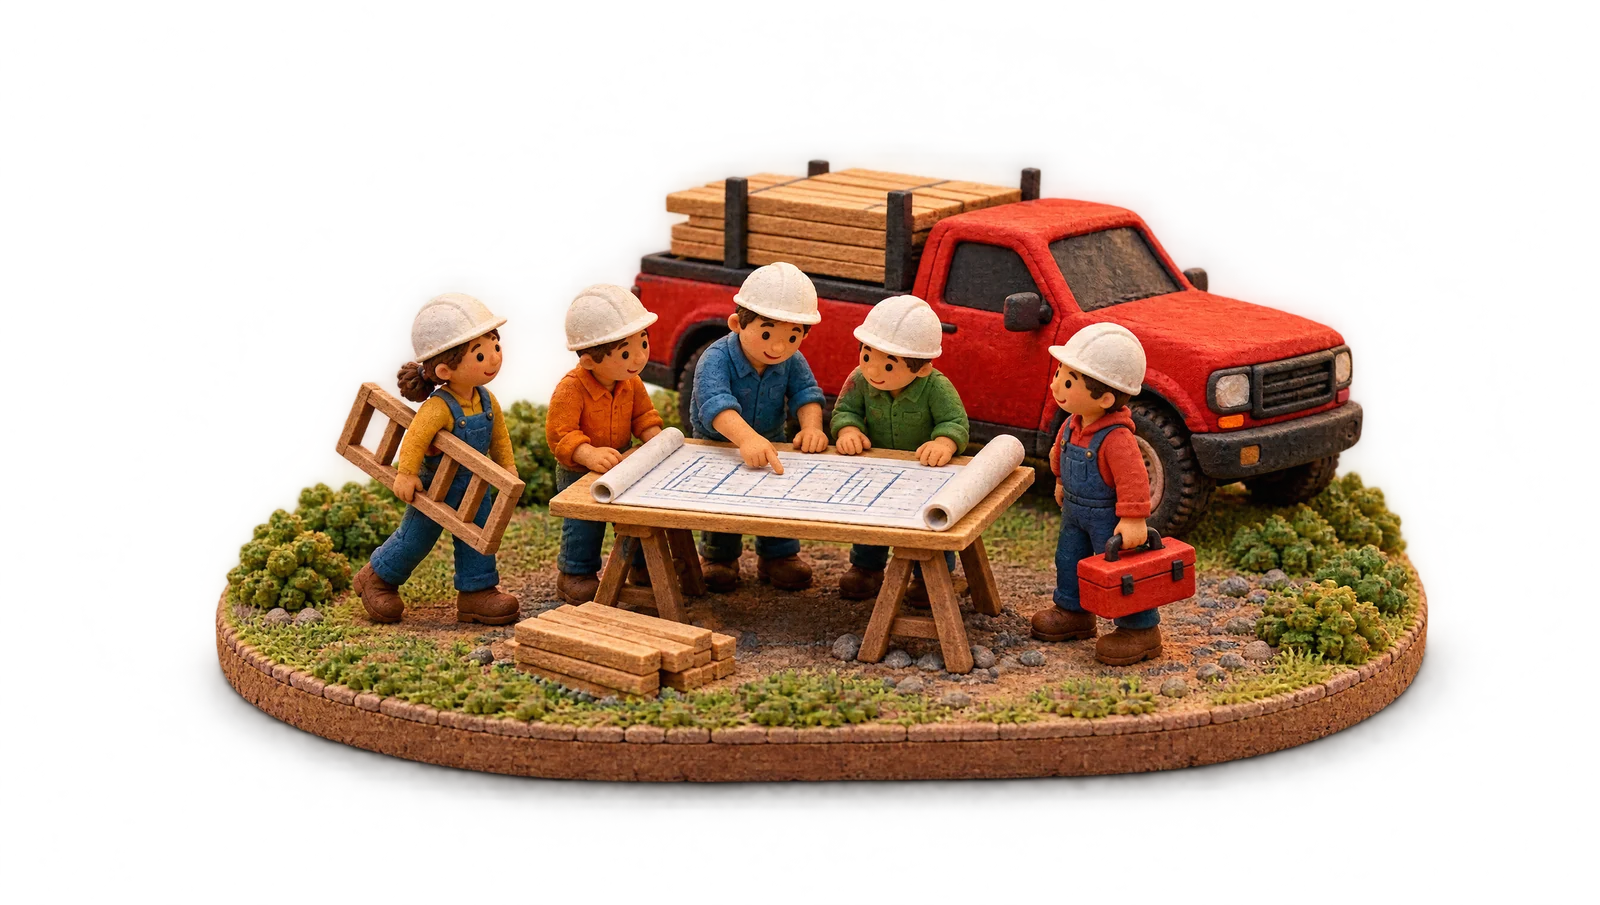
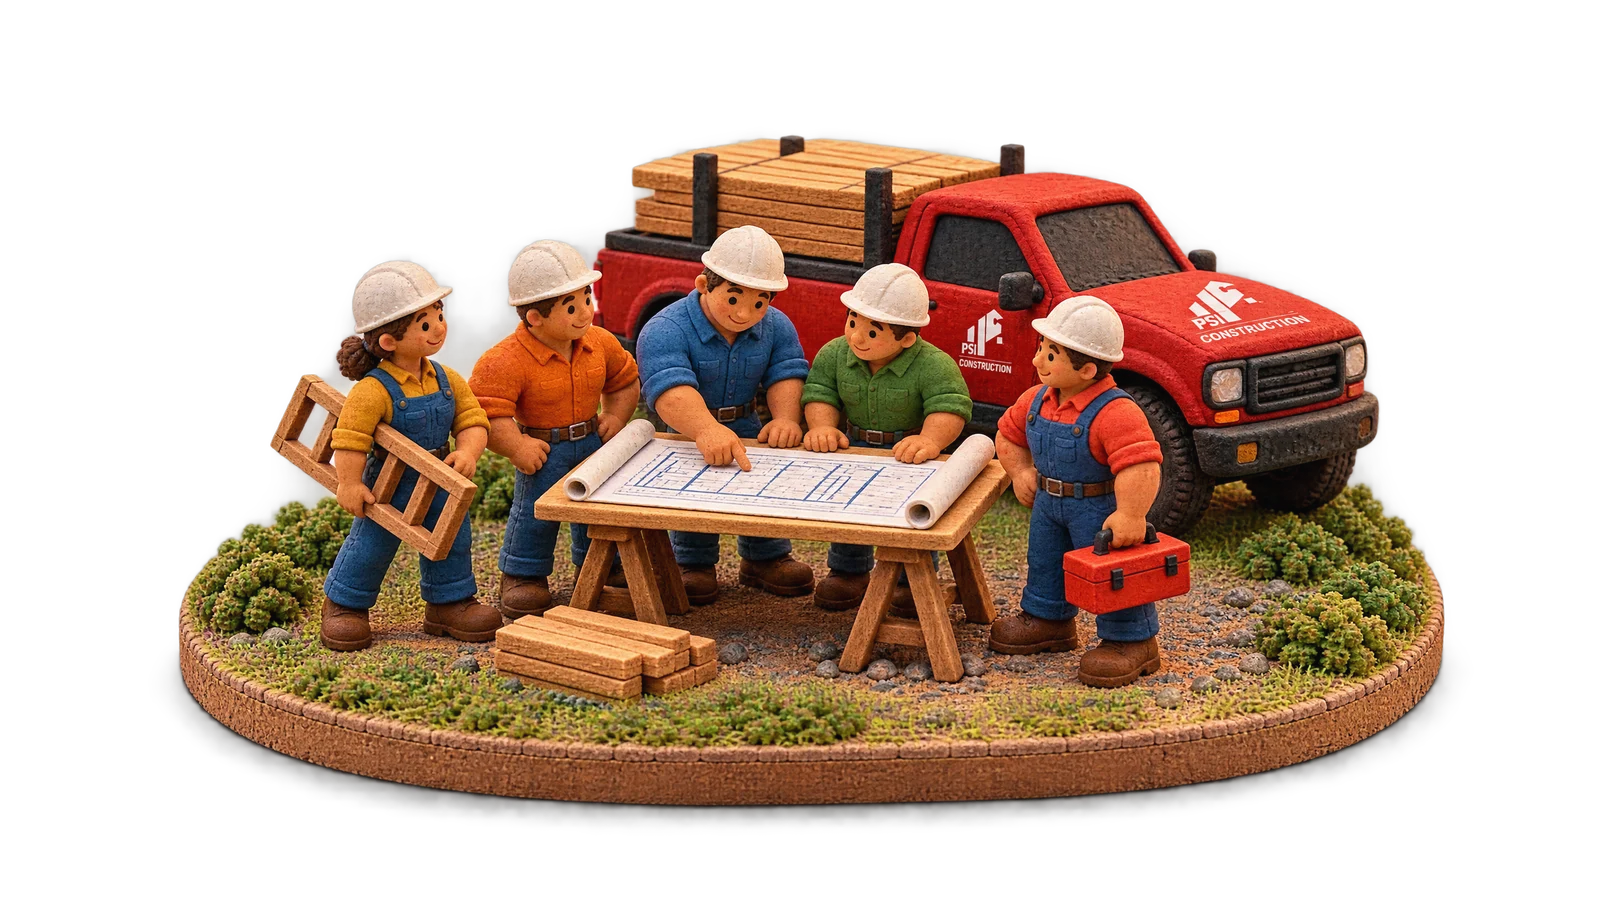
The About crew is rebuilt, stronger and branded
The five figures are sculpted broader and more capable, and the
truck now carries the real PSI Construction mark on its hood and
door, copied from the logo artwork rather than hand-lettered, so
it reads correctly.

diff --git a/index.html b/index.html
@@ -591,7 +591,7 @@
         <img
           class="caps__crew"
           src="assets/about-crew.webp"
-          alt="Clay model of a PSI crew around the blueprints at the truck"
+          alt="Clay model of a PSI crew reading blueprints beside a PSI-branded truck"
           loading="lazy"
           decoding="async"
         />
@@ -1025,7 +1025,7 @@
     ></script>
     <script src="js/hero.js?v=about1" defer></script>
     <script src="js/main.js?v=about1" defer></script>
-    <script src="js/ba-page.js?v=fit2" defer></script>
+    <script src="js/ba-page.js?v=crew2" defer></script>
     <script src="js/upgrade.js?v=about1" defer></script>
     <script type="application/ld+json">
       {

diff --git a/our-work.html b/our-work.html
@@ -20,7 +20,7 @@
       rel="stylesheet"
       href="https://unpkg.com/leaflet@1.9.4/dist/leaflet.css"
     />
-    <link rel="stylesheet" href="css/site.css?v=fit2" />
+    <link rel="stylesheet" href="css/site.css?v=crew2" />
   </head>
   <body>
     <nav class="nav nav--solid" aria-label="Primary">
@@ -180,7 +180,7 @@
 
     <script src="https://unpkg.com/leaflet@1.9.4/dist/leaflet.js"></script>
     <script src="data/projects.js?v=pab42706"></script>
-    <script src="js/work.js?v=fit2" defer></script>
-    <script src="js/support.js?v=fit2" defer></script>
+    <script src="js/work.js?v=crew2" defer></script>
+    <script src="js/support.js?v=crew2" defer></script>
   </body>
 </html>

diff --git a/contact.html b/contact.html
@@ -16,7 +16,7 @@
       href="https://fonts.googleapis.com/css2?family=Archivo:wght@600;700;800&family=Inter:wght@400;500;600;700&display=swap"
       rel="stylesheet"
     />
-    <link rel="stylesheet" href="css/site.css?v=fit2" />
+    <link rel="stylesheet" href="css/site.css?v=crew2" />
   </head>
   <body style="background: var(--paper)">
     <nav class="nav nav--solid" aria-label="Primary">
@@ -148,6 +148,6 @@
 
     <script src="js/quote-data.js?v=a449cf9b"></script>
     <script src="js/quote.js?v=742b7f01" defer></script>
-    <script src="js/support.js?v=fit2" defer></script>
+    <script src="js/support.js?v=crew2" defer></script>
   </body>
 </html>

diff --git a/before-after.html b/before-after.html
@@ -16,7 +16,7 @@
       href="https://fonts.googleapis.com/css2?family=Archivo:wght@600;700;800&family=Inter:wght@400;500;600;700&display=swap"
       rel="stylesheet"
     />
-    <link rel="stylesheet" href="css/site.css?v=fit2" />
+    <link rel="stylesheet" href="css/site.css?v=crew2" />
   </head>
   <body>
     <nav class="nav nav--solid" aria-label="Primary">
@@ -118,7 +118,7 @@
       </div>
     </footer>
 
-    <script src="js/ba-page.js?v=fit2" defer></script>
-    <script src="js/support.js?v=fit2" defer></script>
+    <script src="js/ba-page.js?v=crew2" defer></script>
+    <script src="js/support.js?v=crew2" defer></script>
   </body>
 </html>
